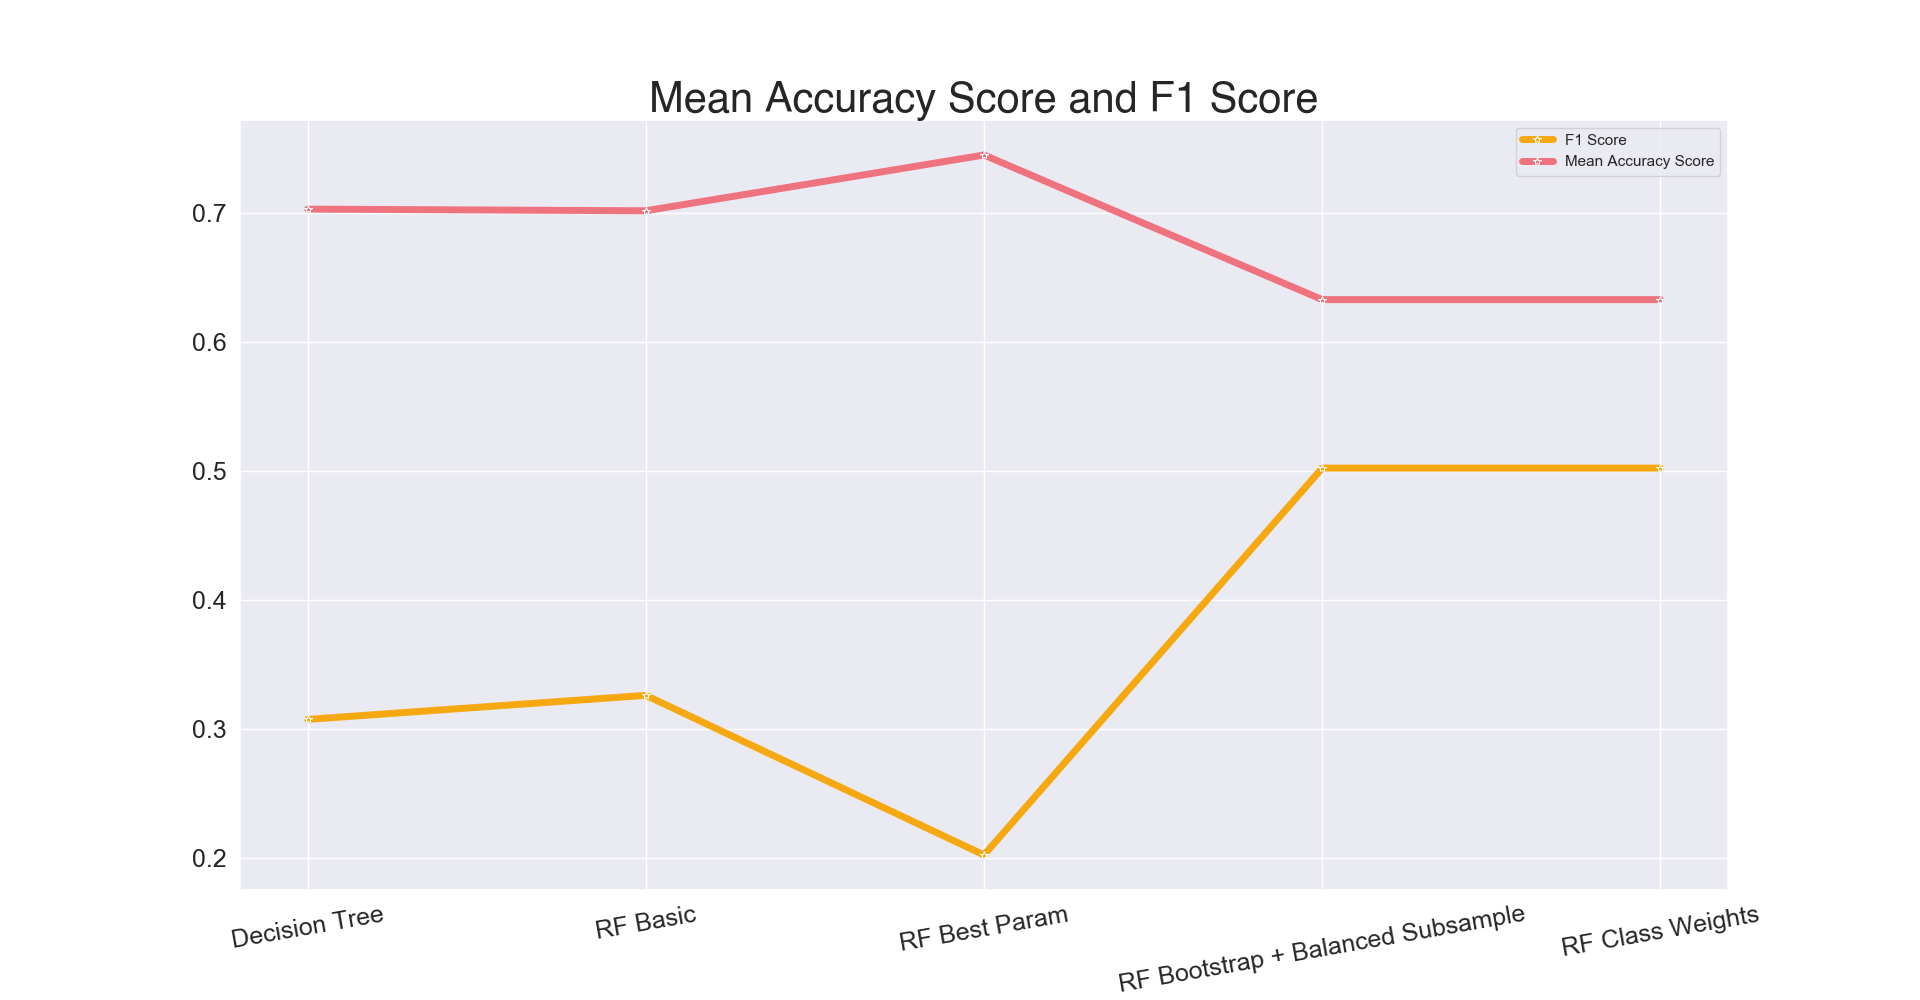
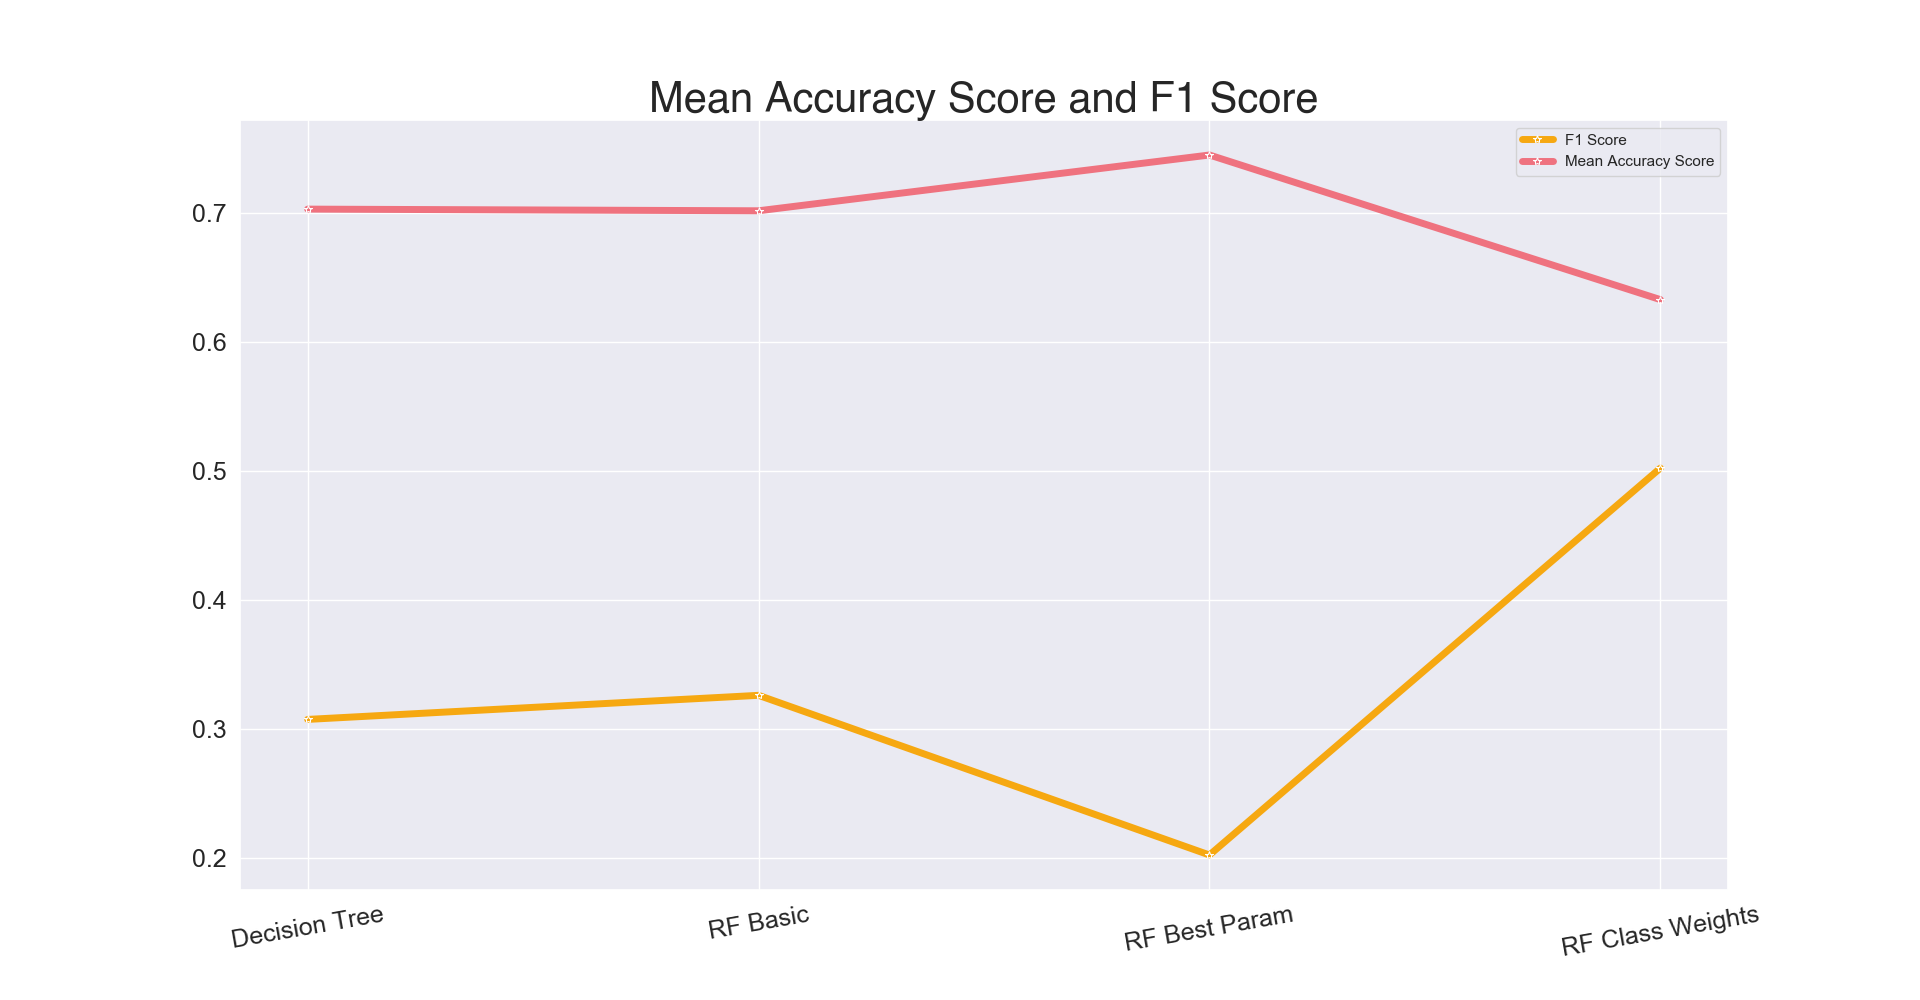
Updating with balance work

diff --git a/notebooks/balancing.py b/notebooks/balancing.py
@@ -1,0 +1,139 @@
+import numpy as np
+import pandas as pd
+import matplotlib.pyplot as plt
+plt.style.use('seaborn')
+from sklearn.linear_model import LogisticRegression as LR
+from sklearn.preprocessing import StandardScaler
+from sklearn.model_selection import train_test_split
+from sklearn.linear_model import LogisticRegression as LR
+from sklearn.ensemble import RandomForestClassifier as RF
+from sklearn.ensemble import GradientBoostingClassifier as GBC
+from sklearn.svm import SVC
+from sklearn.neighbors import KNeighborsClassifier
+
+def div_count_pos_neg(X, y):
+    negatives, positives = y == 0, y == 1
+    negative_count, positive_count = np.sum(negatives), np.sum(positives)
+    X_positives, y_positives = X[positives], y[positives]
+    X_negatives, y_negatives = X[negatives], y[negatives]
+    return negative_count, positive_count, X_positives, \
+           X_negatives, y_positives, y_negatives
+
+def undersample(X, y, tp):
+    """Randomly discards negative observations from X & y to achieve the
+    target proportion of positive to negative observations.
+
+    Parameters
+    ----------
+    X  : ndarray - 2D
+    y  : ndarray - 1D
+    tp : float - range [0, 1], target proportion of positive class observations
+
+    Returns
+    -------
+    X_undersampled : ndarray - 2D
+    y_undersampled : ndarray - 1D
+    """
+    if tp < np.mean(y):
+        return X, y
+    neg_count, pos_count, X_pos, X_neg, y_pos, y_neg = div_count_pos_neg(X, y)
+    negative_sample_rate = (pos_count * (1 - tp)) / (neg_count * tp)
+    negative_keepers = np.random.choice(a=[False, True], size=neg_count,
+                                        p=[1 - negative_sample_rate,
+                                           negative_sample_rate])
+    X_negative_undersampled = X_neg[negative_keepers]
+    y_negative_undersampled = y_neg[negative_keepers]
+    X_undersampled = np.vstack((X_negative_undersampled, X_pos))
+    y_undersampled = np.concatenate((y_negative_undersampled, y_pos))
+
+    return X_undersampled, y_undersampled
+
+def oversample(X, y, tp):
+    """Randomly choose positive observations from X & y, with replacement
+    to achieve the target proportion of positive to negative observations.
+
+    Parameters
+    ----------
+    X  : ndarray - 2D
+    y  : ndarray - 1D
+    tp : float - range [0, 1], target proportion of positive class observations
+
+    Returns
+    -------
+    X_undersampled : ndarray - 2D
+    y_undersampled : ndarray - 1D
+    """
+    if tp < np.mean(y):
+        return X, y
+    neg_count, pos_count, X_pos, X_neg, y_pos, y_neg = div_count_pos_neg(X, y)
+    positive_range = np.arange(pos_count)
+    positive_size = (tp * neg_count) / (1 - tp)
+    positive_idxs = np.random.choice(a=positive_range,
+                                     size=int(positive_size),
+                                     replace=True)
+    X_positive_oversampled = X_pos[positive_idxs]
+    y_positive_oversampled = y_pos[positive_idxs]
+    X_oversampled = np.vstack((X_positive_oversampled, X_neg))
+    y_oversampled = np.concatenate((y_positive_oversampled, y_neg))
+
+    return X_oversampled, y_oversampled
+
+def smote(X, y, tp, k=None):
+    """Generates new observations from the positive (minority) class.
+    For details, see: https://www.jair.org/media/953/live-953-2037-jair.pdf
+
+
+    Parameters
+    ----------
+    X  : ndarray - 2D
+    y  : ndarray - 1D
+    tp : float - [0, 1], target proportion of positive class observations
+
+    Returns
+    -------
+    X_smoted : ndarray - 2D
+    y_smoted : ndarray - 1D
+    """
+    if tp < np.mean(y):
+        return X, y
+    if k is None:
+        k = int(len(X) ** 0.5)
+
+    neg_count, pos_count, X_pos, X_neg, y_pos, y_neg = div_count_pos_neg(X, y)
+    knn = KNeighborsClassifier(n_neighbors=k)
+    knn.fit(X_pos, y_pos)
+    neighbors = knn.kneighbors(return_distance=False)
+
+    positive_size = (tp * neg_count) / (1 - tp)
+    smote_num = int(positive_size - pos_count)
+
+    rand_idxs = np.random.randint(0, pos_count, size=smote_num)
+    rand_nghb_idxs = np.random.randint(0, k, size=smote_num)
+    rand_pcts = np.random.random((smote_num, X.shape[1]))
+    smotes = []
+    for r_idx, r_nghb_idx, r_pct in zip(rand_idxs, rand_nghb_idxs, rand_pcts):
+        rand_pos, rand_pos_neighbors = X_pos[r_idx], neighbors[r_idx]
+        rand_pos_neighbor = X_pos[rand_pos_neighbors[r_nghb_idx]]
+        rand_dir = rand_pos_neighbor - rand_pos
+        rand_change = rand_dir * r_pct
+        smoted_point = rand_pos + rand_change
+        smotes.append(smoted_point)
+    
+    X_smoted = np.vstack((X, np.array(smotes)))
+    y_smoted = np.concatenate((y, np.ones((smote_num,))))
+    return X_smoted, y_smoted
+
+if __name__ == '__main__':
+    #---    Upload test / train csv
+    full = pd.read_csv("../full.csv")
+
+    full = full[['order_id', 'add_to_cart_order', 'product_name', 'user_id',
+        'order_number', 'order_dow', 'order_hour_of_day', 'days_since_prior_order']]
+
+    full['banana1'] = np.where(full['product_name'] == 'Bananfua', 1, 0)
+    full['banana2'] = np.where(full['product_name'] == 'Bag of Organic Bananas', 1, 0)
+    full['banana'] = full['banana2'] + full['banana1']
+
+    full1 = full.groupby('user_id').agg({'order_dow':'max', 'order_hour_of_day':"max", 
+                                    'days_since_prior_order':'max', 'add_to_cart_order':'max', 
+                                    'banana':'max'}).reset_index()

diff --git a/notebooks/trees.py b/notebooks/trees.py
@@ -1,13 +1,13 @@
 import numpy as np
 import pandas as pd
-from sklearn.tree import DecisionTreeClassifier
-from sklearn.ensemble import RandomForestClassifier
-from sklearn.model_selection import KFold, cross_val_score, GridSearchCV
-from sklearn.metrics import confusion_matrix 
-from sklearn.metrics import f1_score
 import seaborn as sns
 import matplotlib.pyplot as plt
 sns.set()
+
+from sklearn.tree import DecisionTreeClassifier
+from sklearn.ensemble import RandomForestClassifier
+from sklearn.model_selection import KFold, cross_val_score, GridSearchCV
+from sklearn.metrics import confusion_matrix, plot_confusion_matrix, f1_score
 
 #---    Model Codes
 def gridsearch_with_output(estimator, parameter_grid, X_train, y_train):
@@ -76,7 +76,6 @@ if __name__ == '__main__':
     f1.append((f1_score(y_test, y_predict)))
     model.append('Decision Tree')
 
-
     #---    Random Forest Basic Model 
     rf = RandomForestClassifier(n_estimators=50)
     rf.fit(X_train, y_train)
@@ -87,7 +86,6 @@ if __name__ == '__main__':
     mean_acc.append(rf_score)
     f1.append((f1_score(y_test, y_predict)))
     model.append('Random Forest Basic')
-
 
     #---    Random Forest GridSearch
 #     random_forest_grid = {'max_depth': [4, 8, 12],
@@ -111,19 +109,6 @@ if __name__ == '__main__':
     f1.append((f1_score(y_test, y_predict)))
     model.append('Random Forest Best Param')
 
-    #---    Random Forest Trying to Balance
-    rf = RandomForestClassifier(max_depth=4, max_features=3, min_samples_split=4, bootstrap=True,
-                    n_estimators=80, random_state=3, class_weight='balanced_subsample')
-    rf.fit(X_train, y_train)
-    y_predict = rf.predict(X_test)
-    rf_score = rf.score(X_test, y_test)
-    print(f'Random Forest Mean Accuracy Weight + Bootstrap: {rf_score:.5}')
-    print(f'Random Forest F1 Score Weight + Bootstrap: {(f1_score(y_test, y_predict)):.5}\n')
-    mean_acc.append(rf_score)
-    f1.append((f1_score(y_test, y_predict)))
-    model.append('Random Forest Bootstrap + Balanced Subsample')
-
-
     #---    Balance Work
     n1 = np.sum(y_train)
     n2 = len(y_train) - n1
@@ -133,7 +118,6 @@ if __name__ == '__main__':
     print(f"w1: {w1:0.2f}, w2: {w2:0.2f}")
 
     #---    Random Forest Trying to Balance with Class Weights
-
     rf = RandomForestClassifier(max_depth=4, max_features=3, min_samples_split=4, bootstrap=True,
                     n_estimators=80, random_state=3, class_weight={1: w1, 0: w2})
     rf.fit(X_train, y_train)

diff --git a/README.md b/README.md
@@ -18,6 +18,10 @@
 - Can I predict if your order has the number one ordered item - Bananas! By only looking at the day and time of order, the number of days since your last order, and the number of items in our order?
 - Even though it is the most purchased item with over 500,000 orders, we are dealing with imbalanced classes, only 26% of orders have bananas
 - Many attempts were made to adjust this imbalance, lets look at the progession of scores over different models
+    - Decision Tree
+    - RF Basic = Random Forest with 50 trees
+    - RF Best Param = Random Forest with 80 trees, max depth of 4 and max features of 3, and min samples split of 4
+    - RF Class Weights = Same as Best Param but found the weights of each group and used that in class weights 
 ![title](images/scores.png)
 
 ## Unsupervised Machine Learning
